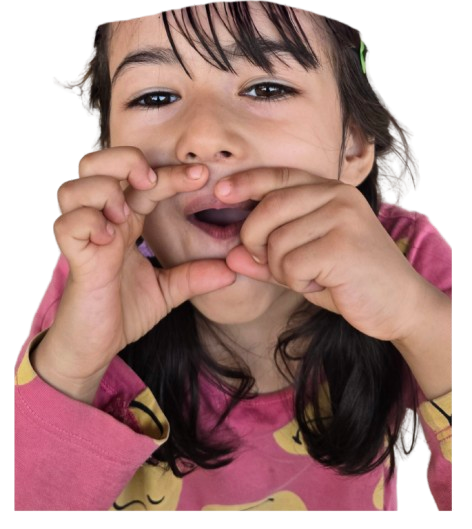
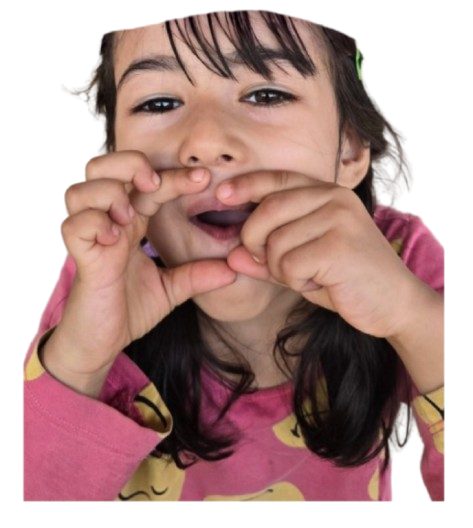
feat: Reordered and updated map elements, refined their layout and label styling, and updated the `ayra.png` asset.

diff --git a/app/components/AyraScrollMap.tsx b/app/components/AyraScrollMap.tsx
@@ -32,77 +32,77 @@ interface MapElement {
 
 const MAP_ELEMENTS: MapElement[] = [
   {
-    id: "house",
-    src: "/elements/house.png",
-    alt: "The farmhouse at Ayra Farms",
-    label: "The Dwelling",
-    targetSection: "#stay",
-    rotation: -3,
-    delay: 0.05,
-    zIndex: 12,
-    desktop: { top: "10%", left: "50%", width: 240, height: 150 },
-    mobile:  { top: "6%",  left: "50%", width: 150, height: 95 },
-  },
-  {
     id: "berries",
     src: "/elements/berries.png",
     alt: "Fresh jamun berries from the farm",
-    label: "The Farm",
+    label: "THE FARM",
     targetSection: "#about",
-    rotation: 5,
+    rotation: -4,
     delay: 0.15,
     zIndex: 11,
-    desktop: { top: "30%", left: "8%",  width: 140, height: 160 },
-    mobile:  { top: "24%", left: "12%", width: 90,  height: 105 },
-  },
-  {
-    id: "bananas",
-    src: "/elements/bananas.png",
-    alt: "Home-grown bananas",
-    label: "The Kitchen",
-    targetSection: "#dining",
-    rotation: -6,
-    delay: 0.2,
-    zIndex: 11,
-    desktop: { top: "26%", left: "82%", width: 135, height: 160 },
-    mobile:  { top: "22%", left: "82%", width: 85,  height: 100 },
+    desktop: { top: "18%", left: "32%", width: 140, height: 140 },
+    mobile:  { top: "12%", left: "28%", width: 90, height: 90 },
   },
   {
     id: "cow",
     src: "/elements/cow.png",
     alt: "Farm cow resting peacefully",
-    label: "Farm Life",
+    label: "FARM LIFE",
     targetSection: "#about",
+    rotation: 5,
+    delay: 0.2,
+    zIndex: 10,
+    desktop: { top: "17%", left: "68%", width: 180, height: 120 },
+    mobile:  { top: "14%", left: "70%", width: 110, height: 75 },
+  },
+  {
+    id: "bananas",
+    src: "/elements/bananas.png",
+    alt: "Home-grown bananas",
+    label: "THE KITCHEN",
+    targetSection: "#dining",
+    rotation: -6,
+    delay: 0.25,
+    zIndex: 12,
+    desktop: { top: "35%", left: "18%", width: 140, height: 140 },
+    mobile:  { top: "28%", left: "12%", width: 90, height: 90 },
+  },
+  {
+    id: "house",
+    src: "/elements/house.png",
+    alt: "The farmhouse at Ayra Farms",
+    label: "THE DWELLING",
+    targetSection: "#stay",
     rotation: 2,
     delay: 0.3,
-    zIndex: 10,
-    desktop: { top: "76%", left: "10%", width: 210, height: 140 },
-    mobile:  { top: "78%", left: "14%", width: 130, height: 88 },
+    zIndex: 13,
+    desktop: { top: "39%", left: "50%", width: 220, height: 130 },
+    mobile:  { top: "32%", left: "50%", width: 140, height: 85 },
   },
   {
     id: "dog",
     src: "/elements/dog.png",
     alt: "The farm dog",
-    label: "Our Residents",
+    label: "OUR RESIDENTS",
     targetSection: "#experience",
-    rotation: -4,
+    rotation: 6,
     delay: 0.35,
-    zIndex: 10,
-    desktop: { top: "70%", left: "80%", width: 150, height: 190 },
-    mobile:  { top: "72%", left: "80%", width: 95,  height: 120 },
+    zIndex: 12,
+    desktop: { top: "37%", left: "82%", width: 130, height: 160 },
+    mobile:  { top: "30%", left: "88%", width: 85, height: 105 },
   },
 ];
 
 /* ── Ayra & hair constants (desktop / mobile) ── */
 const LAYOUT = {
   desktop: {
-    ayra:        { top: "58%", width: 210, height: 260 },
-    hair:        { startTop: "43%", finalTop: "32%", width: 230, height: 95 },
-    burstOrigin: { top: "40%", left: "50%" },
+    ayra:        { top: "80%",width: 320, height: 405 },
+    hair:        { startTop: "51.5%", finalTop: "1%", width: 250, height: 110 },
+    burstOrigin: { top: "35%", left: "50%" },
   },
   mobile: {
-    ayra:        { top: "52%", width: 140, height: 175 },
-    hair:        { startTop: "38%", finalTop: "28%", width: 155, height: 65 },
+    ayra:        { top: "75%", width: 340, height: 430 },
+    hair:        { startTop: "50.5%", finalTop: "0.5%", width: 220, height: 110 },
     burstOrigin: { top: "35%", left: "50%" },
   },
 };
@@ -448,27 +448,16 @@ export default function AyraScrollMap() {
                 {/* Label */}
                 <div
                   ref={setLabelRef(el.id)}
-                  className={`absolute left-1/2 -translate-x-1/2 whitespace-nowrap pointer-events-none ${
-                    parseFloat(l.top) < 40 ? "top-full mt-1 md:mt-2" : "bottom-full mb-1 md:mb-2"
-                  }`}
+                  className="absolute bottom-[-15px] left-1/2 -translate-x-1/2 whitespace-nowrap pointer-events-none z-20"
                   style={{ opacity: 0 }}
                 >
-                  <div
-                    className={`absolute left-1/2 -translate-x-1/2 w-[1px] h-2 md:h-3 border-l border-dashed border-ink/25 ${
-                      parseFloat(l.top) < 40 ? "-top-2 md:-top-3" : "-bottom-2 md:-bottom-3"
-                    }`}
-                  />
                   <span
-                    className={`element-label font-hand text-xs md:text-base text-ink/75 px-1.5 md:px-2 py-0.5 bg-parchment/80 backdrop-blur-sm rounded-sm ${
-                      isSettled ? "element-label-active" : ""
+                    className={`element-label inline-block font-hand font-bold tracking-widest text-[9px] md:text-xs text-ink/80 px-3 md:px-4 py-1.5 md:py-2 bg-[#F5F2EB] shadow-sm transform transition-all duration-300 rounded-[2px] ${
+                      isSettled ? "element-label-active shadow-md" : ""
                     }`}
+                    style={{ transform: `rotate(${el.rotation > 0 ? -3 : 2}deg)` }}
                   >
                     {el.label}
-                    {isSettled && (
-                      <span className="inline-block ml-1 text-terracotta text-[10px] md:text-xs">
-                        ↗
-                      </span>
-                    )}
                   </span>
                 </div>
               </div>
